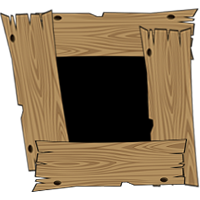
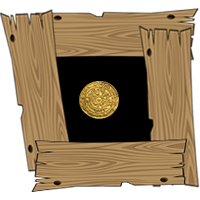
Añadimos sistema de venta de peces
Ahora se puede vender un pez y recuperar parte de las ganancias de comprarlo

Changed region(s): [[0.39, 0.39, 0.6, 0.6]]

diff --git a/src/PantallaJuego.java b/src/PantallaJuego.java
@@ -23,7 +23,7 @@ public class PantallaJuego implements Pantalla, Serializable {
 	// ||variables para el fondo||
 	private BufferedImage fondo;
 	private Image fondoEscalado;
-	private int dineroValor;
+	 int dineroValor;
 	private ArrayList<Pez> peces = new ArrayList<Pez>();
 	private ArrayList<Sprite> comidas = new ArrayList<Sprite>();
 	private ArrayList<Sprite> burbujas = new ArrayList<Sprite>();
@@ -33,10 +33,10 @@ public class PantallaJuego implements Pantalla, Serializable {
 			imagenTiburonIzquierda, imagenTiburonDerecha, imagenTortugaMuerta, imagenTiburonMuerto, imagenMoneda,
 			imagenMenu;
 	private Sprite comida, cerrar, agarrar, bienvenida, cerrarVentana, texto, tienda, dineroSprite, nuevoPayaso,
-			nuevoTortuga, nuevoTiburon, menu,cerrarMenu;
+			nuevoTortuga, nuevoTiburon, menu, cerrarMenu;
 	private boolean darComida = false;
 	private boolean escribiendo = false;
-	
+	private boolean vender = false;
 	int valorX, valorY;
 	private VentanaPrincipal ventana;
 	boolean partidaInicida;
@@ -46,6 +46,8 @@ public class PantallaJuego implements Pantalla, Serializable {
 	private double tiempoInicial = 0;
 	private double contadorTiempo = 0;
 	String cadena = "";
+	
+	private int ultClickado = 0;
 	final Font fuenteNombre = new Font("", Font.BOLD, 60);
 	final Font fuentePeces = new Font("", Font.BOLD, 18);
 	Partida partida;
@@ -118,13 +120,13 @@ public class PantallaJuego implements Pantalla, Serializable {
 
 		menu = new Sprite(80, juego.getHeight() - 100, 100, 100, 0, 0, imagenMenu, true, false);
 
-		cerrarMenu = new Sprite(70,juego.getHeight() - 100, 40, 40, 0, 0, imagenCerrar, true, false);
-		
+		cerrarMenu = new Sprite(70, juego.getHeight() - 100, 40, 40, 0, 0, imagenCerrar, true, false);
+
 		if (partida == null) {
 			nuevoPez = true;
 		} else {
 			nuevoPez = false;
-
+			dineroValor=partida.getDinero();
 			for (int i = 0; i < partida.getPeces(); i++) {
 				switch (partida.getTipos().get(i)) {
 				case 1:
@@ -161,8 +163,8 @@ public class PantallaJuego implements Pantalla, Serializable {
 			for (int i = 0; i < peces.size(); i++) {
 
 				peces.get(i).pintarEnMundo(g);
-				if (peces.get(i).clickado && cerrarMenu.visible==true) {
-					menuPez(peces.get(i), g);
+				if (peces.get(i).clickado && cerrarMenu.visible == true) {
+					menuPez( g);
 				}
 			}
 
@@ -260,37 +262,51 @@ public class PantallaJuego implements Pantalla, Serializable {
 			}
 
 			if (tienda.enBoton) {
-				juego.pantallaEjecucion = new PantallaTienda(this, juego, ventana);
+				juego.pantallaEjecucion = new PantallaTienda(this, juego, ventana,dineroValor);
 			}
 
 			for (int i = 0; i < peces.size(); i++) {
-				
-				if (peces.get(i).focuseado || menu.enBoton) {
-					
-					peces.get(i).clickado = true;
-					
-					menu.visible=true;
-					cerrarMenu.visible=true;
-						
-					
 
-				}else {
+				if (peces.get(i).focuseado || menu.enBoton) {
+					if(peces.get(i).focuseado) {
+						ultClickado = i;
+						peces.get(i).clickado = true;
+					}
 					
+					menu.visible = true;
+					cerrarMenu.visible = true;
+
+				} else {
 					
-				
 					peces.get(i).clickado = false;
-					
-					
+
 				}
 			}
-			
-			if(cerrarMenu.enBoton) {
-				menu.visible=false;
-				cerrarMenu.visible=false;
+
+			if (cerrarMenu.enBoton) {
+				
+				menu.visible = false;
+				cerrarMenu.visible = false;
 			}
 			
-			
+			if(menu.enBoton) {
+				if(peces.size()>0)
+					switch(peces.get(ultClickado).tipo) {
+					case 1:
+						dineroValor+=100;
+						break;
+					case 2:
+						dineroValor+=500;
+						break;
+					case 3:
+						dineroValor+=2000;
+						break;
+					}
+				peces.remove(ultClickado);
+				}
 				
+			
+		
 
 		} else {
 			if (cerrarVentana.enBoton && cadena.length() > 0) {
@@ -320,7 +336,7 @@ public class PantallaJuego implements Pantalla, Serializable {
 			if (e.getX() >= peces.get(i).posX && e.getX() <= peces.get(i).posX + peces.get(i).ancho
 					&& e.getY() >= peces.get(i).posY && e.getY() <= peces.get(i).posY + peces.get(i).alto) {
 				peces.get(i).focuseado = true;
-				
+
 			} else {
 				peces.get(i).focuseado = false;
 
@@ -365,8 +381,8 @@ public class PantallaJuego implements Pantalla, Serializable {
 
 	public void comprobarBoton(MouseEvent raton, Sprite sprite, Boolean efecto) {
 		if (raton.getX() >= sprite.getPosX() && raton.getX() <= sprite.getPosX() + sprite.ancho
-				&& raton.getY() >= sprite.getPosY() && raton.getY() <= sprite.getPosY() + sprite.alto && sprite.visible
-				) {
+				&& raton.getY() >= sprite.getPosY() && raton.getY() <= sprite.getPosY() + sprite.alto
+				&& sprite.visible) {
 
 			sprite.enBoton = true;
 			if (efecto) {
@@ -440,6 +456,7 @@ public class PantallaJuego implements Pantalla, Serializable {
 		Partida partida = new Partida();
 
 		partida.setPeces(peces.size());
+		partida.setDinero(dineroValor);
 		for (int i = 0; i < peces.size(); i++) {
 			partida.setNombres(peces.get(i).nombre);
 			partida.setEstadisticas(peces.get(i).salud);
@@ -496,12 +513,13 @@ public class PantallaJuego implements Pantalla, Serializable {
 		}
 	}
 
-	public void menuPez(Pez pez, Graphics g) {
-		
+	public void menuPez( Graphics g) {
+
 		menu.pintarEnMundo(g);
 		cerrarMenu.pintarEnMundo(g);
 		cerrarMenu.pintarBuffer(imagenCerrar, true);
+		
+		
 	}
-	
 
 }

diff --git a/src/PantallaTienda.java b/src/PantallaTienda.java
@@ -1,3 +1,4 @@
+import java.awt.Font;
 import java.awt.Graphics;
 import java.awt.event.KeyEvent;
 import java.awt.event.MouseEvent;
@@ -13,11 +14,13 @@ public class PantallaTienda implements Pantalla {
 	PantallaJuego pecera;
 	PanelJuego juego;
 	VentanaPrincipal ventana;
-	BufferedImage imagenCerrar,fondoEscalado,imagenConcha,imagenBoton,imagenPayaso,imagenTortuga,imagenTiburon;
-	
-	Sprite cerrar,agarrar,botonComprarPayaso,botonComprarTortuga,botonComprarTiburon ,pez,tortuga,tiburon;
-	public PantallaTienda(PantallaJuego pecera,PanelJuego juego,VentanaPrincipal ventana) {
+	BufferedImage imagenCerrar,fondoEscalado,imagenConcha,imagenBoton,imagenPayaso,imagenTortuga,imagenTiburon,imagenPrecioPez,imagenPrecioTortuga,imagenPrecioTiburon,imagenMoneda;
+	private int dinero;
+	Sprite cerrar,agarrar,botonComprarPayaso,botonComprarTortuga,botonComprarTiburon ,pez,tortuga,tiburon,pPez,pTortuga,pTiburon,dineroSprite;
+	final Font fuentePeces = new Font("", Font.BOLD, 18);
+	public PantallaTienda(PantallaJuego pecera,PanelJuego juego,VentanaPrincipal ventana,int dinero) {
 		this.pecera=pecera;
+		this.dinero=dinero;
 		this.ventana=ventana;
 		inicializarPantalla(juego);
 	}
@@ -34,6 +37,10 @@ public class PantallaTienda implements Pantalla {
 			imagenPayaso = ImageIO.read(new File("Imagenes/pez-izquierda.png"));
 			imagenTortuga =  ImageIO.read(new File("Imagenes/tortuga-Izquierda.png"));
 			imagenTiburon = ImageIO.read(new File("Imagenes/tiburon-izquierda.png"));
+			imagenPrecioPez = ImageIO.read(new File("Imagenes/precioPez.png"));
+			imagenPrecioTortuga =ImageIO.read(new File("Imagenes/precioTortuga.png"));
+			imagenPrecioTiburon =ImageIO.read(new File("Imagenes/precioTiburon.png"));
+			imagenMoneda = ImageIO.read(new File("Imagenes/moneda.png"));
 		} catch (IOException e) {
 			// TODO Auto-generated catch block
 			e.printStackTrace();
@@ -54,6 +61,14 @@ public class PantallaTienda implements Pantalla {
 		
 		tiburon =  new Sprite(300, 400, 200, 100, 0, 0, imagenTiburon, true, true);
 		
+		pPez= new Sprite(100, 100, 200, 100, 0, 0, imagenPrecioPez, true, true);
+		
+		pTortuga = new Sprite(100, 250, 200, 100, 0, 0, imagenPrecioTortuga, true, true);
+		
+		pTiburon = new Sprite(100, 400, 200, 100, 0, 0, imagenPrecioTiburon, true, true);
+				
+		dineroSprite = new Sprite(10, juego.getHeight() - 60, 40, 40, 0, 0, imagenMoneda, true, true);		
+		
 		
 	}
 
@@ -73,7 +88,14 @@ public class PantallaTienda implements Pantalla {
 	tiburon.pintarEnMundo(g);
 	botonComprarTiburon.pintarEnMundo(g);
 	botonComprarTiburon.pintarBuffer(imagenBoton, true);
+	pPez.pintarEnMundo(g);
+	pTiburon.pintarEnMundo(g);
+	pTortuga.pintarEnMundo(g);
+	
+	dineroSprite.pintarEnMundo(g);
 
+	g.setFont(fuentePeces);
+	g.drawString(Integer.toString(dinero), 60, juego.getHeight() - 30);
 	}
 
 	@Override
@@ -89,20 +111,29 @@ public class PantallaTienda implements Pantalla {
 			
 		}
 		if(botonComprarPayaso.enBoton) {
+			if(pecera.dineroValor>=120) {
 			pecera.nuevoPez=true;
 			pecera.tipoPez = 1;
+			pecera.dineroValor-=120;
 			juego.pantallaEjecucion = pecera;
+			}
 		}
 		if(botonComprarTortuga.enBoton) {
+			if(pecera.dineroValor>=600) {
 			pecera.nuevoPez=true;
 			pecera.tipoPez=2;
+			pecera.dineroValor-=600;
 			juego.pantallaEjecucion = pecera;
+			}
 		}
 		
 		if(botonComprarTiburon.enBoton) {
+			if(pecera.dineroValor>=2500) {
 			pecera.nuevoPez=true;
 			pecera.tipoPez=3;
+			pecera.dineroValor-=2500;
 			juego.pantallaEjecucion = pecera;
+			}
 		}
 
 	}

diff --git a/src/Partida.java b/src/Partida.java
@@ -8,6 +8,7 @@ public class Partida implements Serializable{
 	private ArrayList<String> nombres = new ArrayList<String>();
 	private ArrayList<Integer> estadisticas = new ArrayList<Integer>();
 	private ArrayList<Integer> tipos = new ArrayList<Integer>();
+	private int dinero = 0;
 	
 	public int getPeces() {
 		return peces;
@@ -39,5 +40,14 @@ public class Partida implements Serializable{
 	}
 	public void setTipos(int tipo) {
 		tipos.add(tipo);
+	}
+	public int getDinero() {
+		return dinero;
+	}
+	public void setDinero(int dinero) {
+		this.dinero = dinero;
+	}
+	public void setTipos(ArrayList<Integer> tipos) {
+		this.tipos = tipos;
 	}
 }
